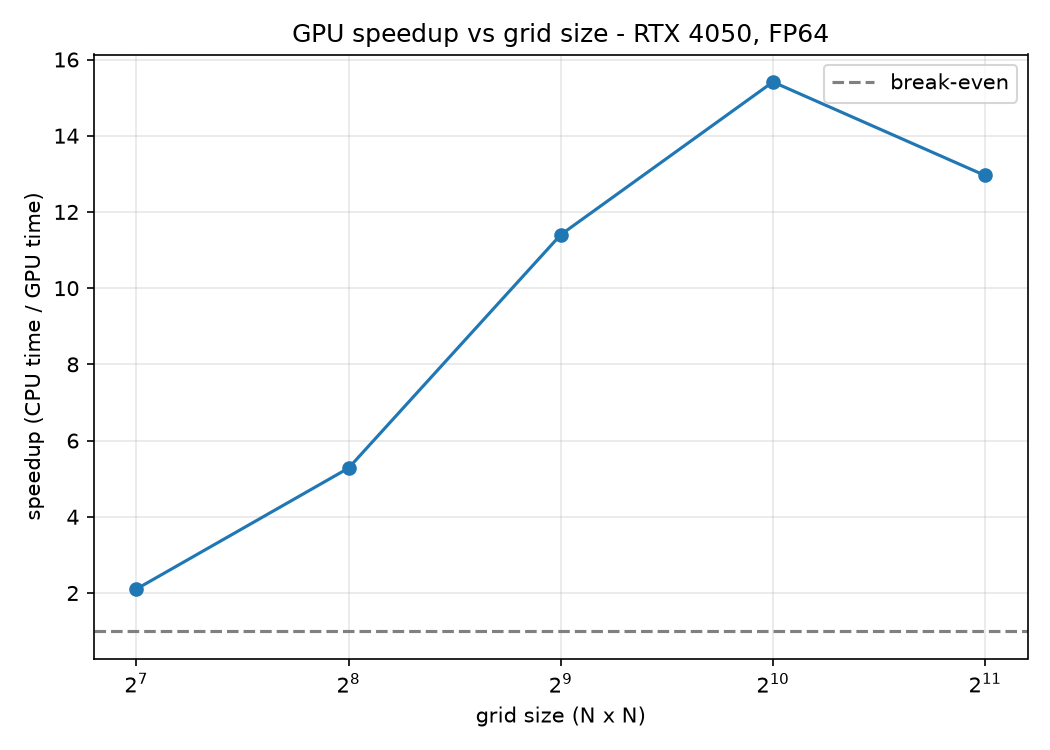
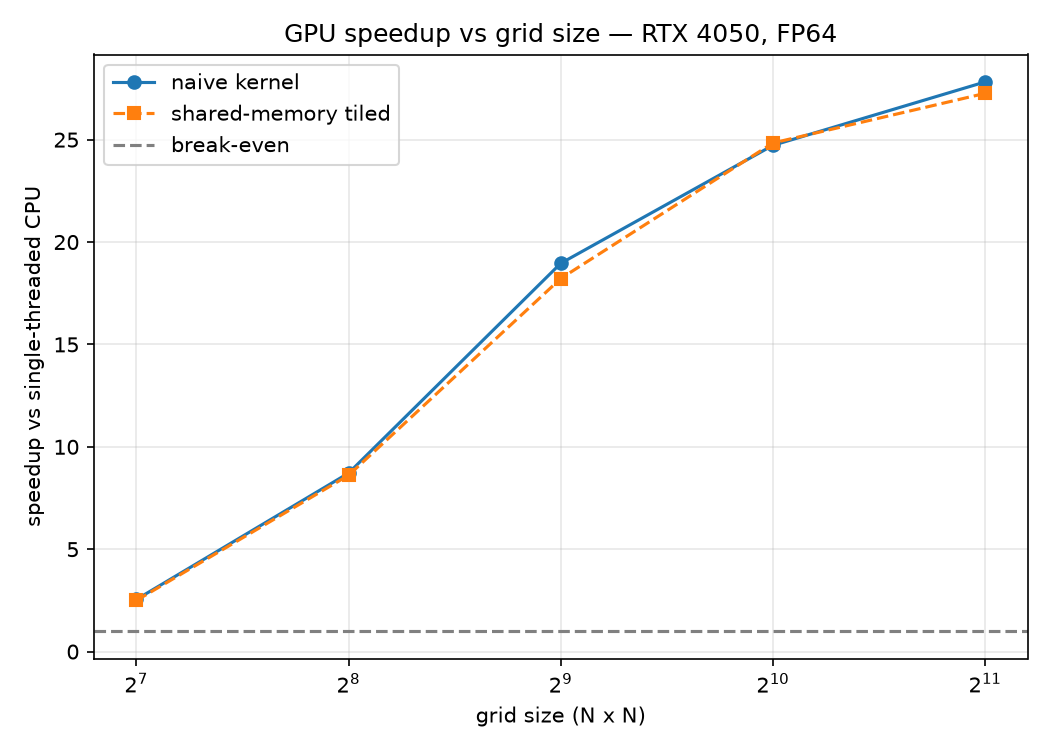
Add shared-memory tiled kernel and roofline analysis

diff --git a/src/benchmark.cpp b/src/benchmark.cpp
@@ -31,8 +31,7 @@ double max_abs_diff(const Field& a, const Field& b) {
 int main() {
     const int steps = 200;
 
-    // Absorb CUDA context initialisation so it isn't charged to the first
-    // timed run.
+    // Warm up the CUDA context.
     {
         Field warm(64, 64);
         SimulationParams wp;
@@ -41,8 +40,7 @@ int main() {
     }
 
     std::ofstream out("benchmark.csv");
-    out << "n,cpu_ms,gpu_ms,speedup,max_diff\n";
-
+    out << "n,cpu_ms,gpu_ms,tiled_ms,speedup,tiled_speedup,tiled_vs_naive\n";
     std::cout << std::fixed << std::setprecision(2);
 
     for (std::size_t n : {128u, 256u, 512u, 1024u, 2048u}) {
@@ -63,17 +61,28 @@ int main() {
         const double gpu_ms =
             std::chrono::duration<double, std::milli>(t1 - t0).count();
 
-        const double diff = max_abs_diff(cpu_field, gpu_field);
+        Field tiled_field = make_initial(n);
+        t0 = Clock::now();
+        run_cuda_tiled(tiled_field, p, steps);
+        t1 = Clock::now();
+        const double tiled_ms =
+            std::chrono::duration<double, std::milli>(t1 - t0).count();
+
+        const double d_naive = max_abs_diff(cpu_field, gpu_field);
+        const double d_tiled = max_abs_diff(cpu_field, tiled_field);
 
         std::cout << n << "x" << n
-                  << "  CPU " << cpu_ms << " ms"
-                  << "  GPU " << gpu_ms << " ms"
-                  << "  speedup " << (cpu_ms / gpu_ms) << "x"
-                  << "  max|diff| " << std::scientific << diff
+                  << "  CPU " << cpu_ms
+                  << "  naive " << gpu_ms << " (" << (cpu_ms / gpu_ms) << "x)"
+                  << "  tiled " << tiled_ms << " (" << (cpu_ms / tiled_ms) << "x)"
+                  << "  tiled/naive " << (gpu_ms / tiled_ms) << "x"
+                  << std::scientific
+                  << "  diff " << d_naive << " / " << d_tiled
                   << std::fixed << "\n";
 
-        out << n << "," << cpu_ms << "," << gpu_ms << ","
-            << (cpu_ms / gpu_ms) << "," << diff << "\n";
+        out << n << "," << cpu_ms << "," << gpu_ms << "," << tiled_ms << ","
+            << (cpu_ms / gpu_ms) << "," << (cpu_ms / tiled_ms) << ","
+            << (gpu_ms / tiled_ms) << "\n";
     }
 
     std::cout << "Wrote benchmark.csv\n";

diff --git a/tests/test_cuda.cpp b/tests/test_cuda.cpp
@@ -62,5 +62,57 @@ int main() {
                   << worst << ")\n";
     }
 
+    // Tiled kernel: halo loading must reproduce the same result.
+    {
+        SimulationParams p;
+        p.dt = max_stable_dt(p.diffusivity, p.dx) * 0.5;
+
+        Field cpu(256, 256);
+        Field gpu(256, 256);
+        cpu.at(128, 128) = 1000.0;
+        gpu.at(128, 128) = 1000.0;
+
+        run(cpu, p, 50);
+        run_cuda_tiled(gpu, p, 50);
+
+        double worst = 0.0;
+        for (std::size_t k = 0; k < cpu.data().size(); ++k) {
+            worst = std::max(worst, std::fabs(cpu.data()[k] - gpu.data()[k]));
+        }
+
+        const bool pass = worst < 1e-12;
+        ok = ok && pass;
+        std::cout << (pass ? "pass" : "FAIL")
+                  << ": tiled GPU matches CPU (max diff " << worst << ")\n";
+    }
+
+    // Tiled kernel with advection, on a grid that is not a tile multiple.
+    {
+        SimulationParams ap;
+        ap.diffusivity = 0.5;
+        ap.u = 0.3;
+        ap.v = -0.2;
+        ap.dt = max_stable_dt_advective(ap) * 0.5;
+
+        Field cpu(100, 150);
+        Field gpu(100, 150);
+        cpu.at(50, 75) = 1000.0;
+        gpu.at(50, 75) = 1000.0;
+
+        run(cpu, ap, 40);
+        run_cuda_tiled(gpu, ap, 40);
+
+        double worst = 0.0;
+        for (std::size_t k = 0; k < cpu.data().size(); ++k) {
+            worst = std::max(worst, std::fabs(cpu.data()[k] - gpu.data()[k]));
+        }
+
+        const bool pass = worst < 1e-12;
+        ok = ok && pass;
+        std::cout << (pass ? "pass" : "FAIL")
+                  << ": tiled GPU matches CPU, ragged grid (max diff "
+                  << worst << ")\n";
+    }
+
     return ok ? EXIT_SUCCESS : EXIT_FAILURE;
 }

diff --git a/scripts/plot_benchmark.py b/scripts/plot_benchmark.py
@@ -3,19 +3,21 @@ import matplotlib
 matplotlib.use("Agg")
 import matplotlib.pyplot as plt
 
-n, speedup = [], []
+n, naive, tiled = [], [], []
 with open("benchmark.csv") as f:
     for row in csv.DictReader(f):
         n.append(int(row["n"]))
-        speedup.append(float(row["speedup"]))
+        naive.append(float(row["speedup"]))
+        tiled.append(float(row["tiled_speedup"]))
 
 fig, ax = plt.subplots(figsize=(7, 5))
-ax.plot(n, speedup, "o-")
+ax.plot(n, naive, "o-", label="naive kernel")
+ax.plot(n, tiled, "s--", label="shared-memory tiled")
 ax.axhline(1.0, color="gray", linestyle="--", label="break-even")
 ax.set_xscale("log", base=2)
 ax.set_xlabel("grid size (N x N)")
-ax.set_ylabel("speedup (CPU time / GPU time)")
-ax.set_title("GPU speedup vs grid size - RTX 4050, FP64")
+ax.set_ylabel("speedup vs single-threaded CPU")
+ax.set_title("GPU speedup vs grid size — RTX 4050, FP64")
 ax.legend()
 ax.grid(True, alpha=0.3)
 fig.tight_layout()

diff --git a/scripts/plot_roofline.py b/scripts/plot_roofline.py
@@ -1,0 +1,25 @@
+import matplotlib
+matplotlib.use("Agg")
+import matplotlib.pyplot as plt
+import numpy as np
+
+BANDWIDTH = 192e9      # bytes/s  -- 2000 MHz GDDR6, 96-bit bus
+PEAK_FP64 = 140e9      # flops/s  -- 2560 cores, 1755 MHz, FP64 at 1/64 rate
+
+ai = np.logspace(-2, 2, 400)
+roof = np.minimum(ai * BANDWIDTH, PEAK_FP64) / 1e9
+
+fig, ax = plt.subplots(figsize=(7, 5))
+ax.loglog(ai, roof, label="roofline")
+ax.plot(0.44, 57.5, "o", markersize=9, label="stencil kernel (1024²)")
+ax.axvline(PEAK_FP64 / BANDWIDTH, color="gray", linestyle=":",
+           label=f"ridge point ({PEAK_FP64 / BANDWIDTH:.2f} flops/byte)")
+
+ax.set_xlabel("arithmetic intensity (flops/byte)")
+ax.set_ylabel("performance (GFLOPS, FP64)")
+ax.set_title("Roofline — RTX 4050 Laptop GPU, FP64")
+ax.legend()
+ax.grid(True, which="both", alpha=0.3)
+fig.tight_layout()
+fig.savefig("docs/roofline.png", dpi=150)
+print("wrote docs/roofline.png")

diff --git a/include/solver_cuda.hpp b/include/solver_cuda.hpp
@@ -6,4 +6,6 @@ namespace diffusion {
 
 /// GPU implementation of `run`, Same semantics, same results.
 void run_cuda(Field& field, const SimulationParams& params, int n_steps);
+
+void run_cuda_tiled(Field& field, const SimulationParams& params, int n_steps);
 }  // namespace diffusion
